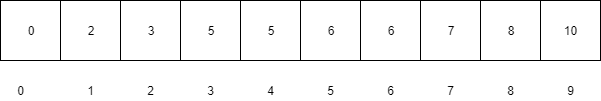
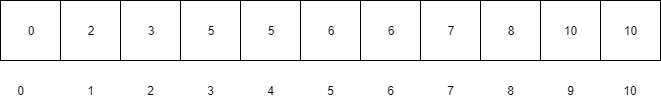
添加计数排序优化图显示

diff --git a/排序算法/README.md b/排序算法/README.md
@@ -112,7 +112,7 @@
 
 ### 优化
 
-- 如果数列的最大值为99，最小值为90，那么开辟一个长度为100的数组造成空间浪费
+- 如果数列的最大值为99，最小值为90，那么开辟一个长度为100的数组造成空间浪费![countSort1](https://raw.githubusercontent.com/skypeee/python-learning/master/排序算法/image/countSort5.png)
 - 以数列最大值-数列最小值+1最为数组的长度
 - 对应下标为数据-最小值
 
